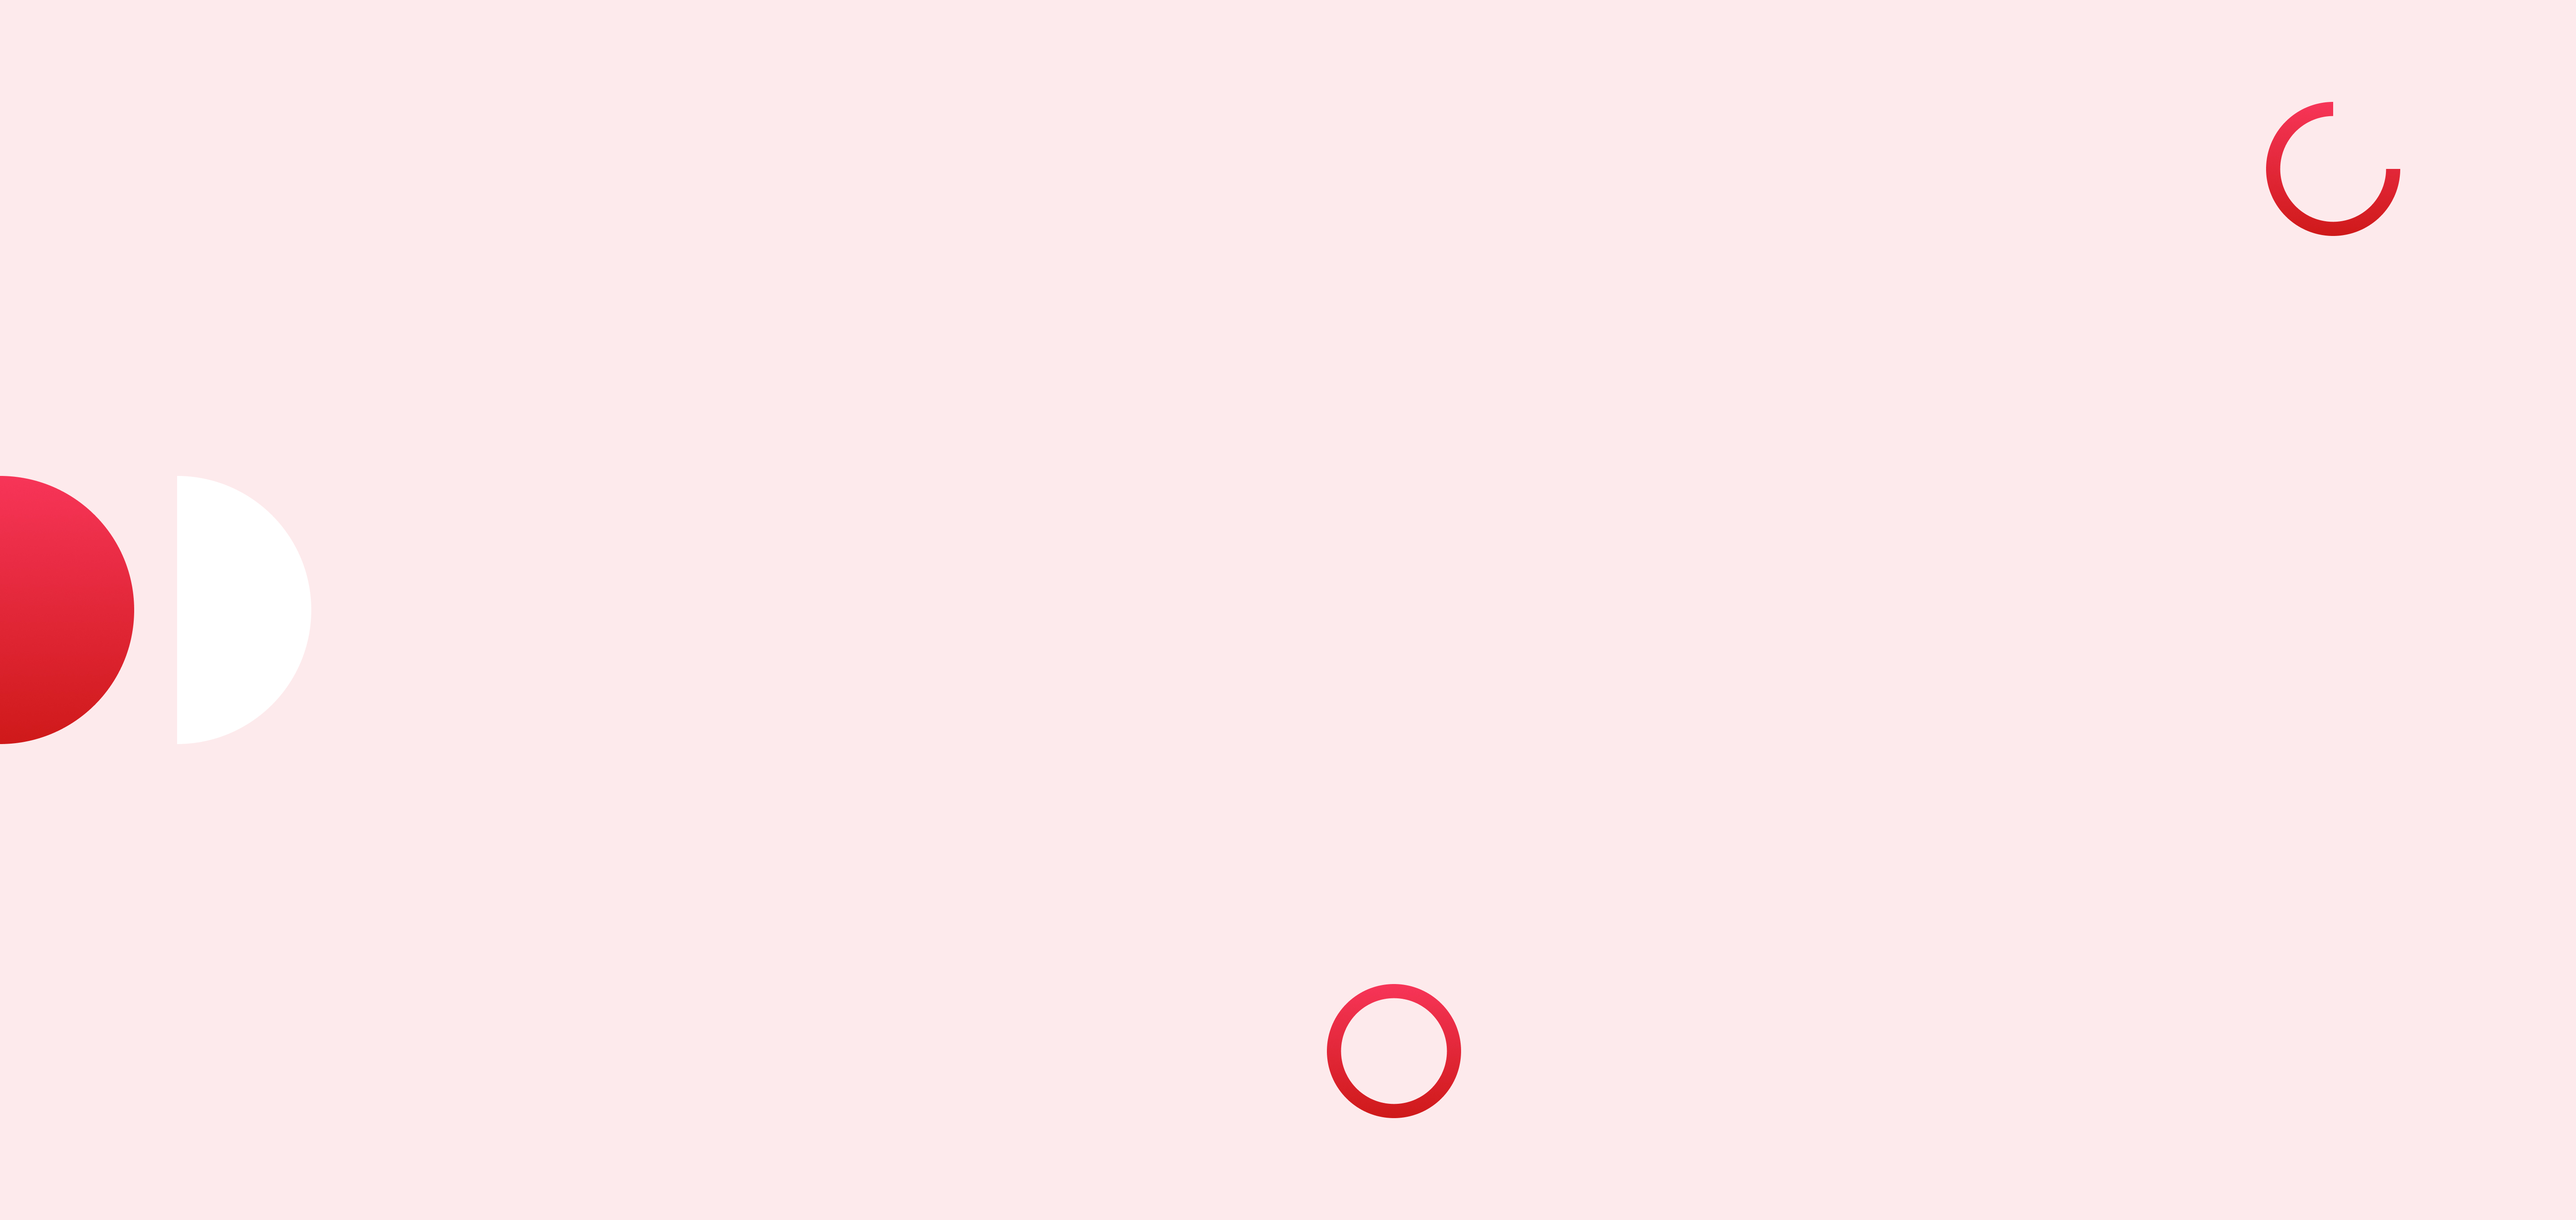
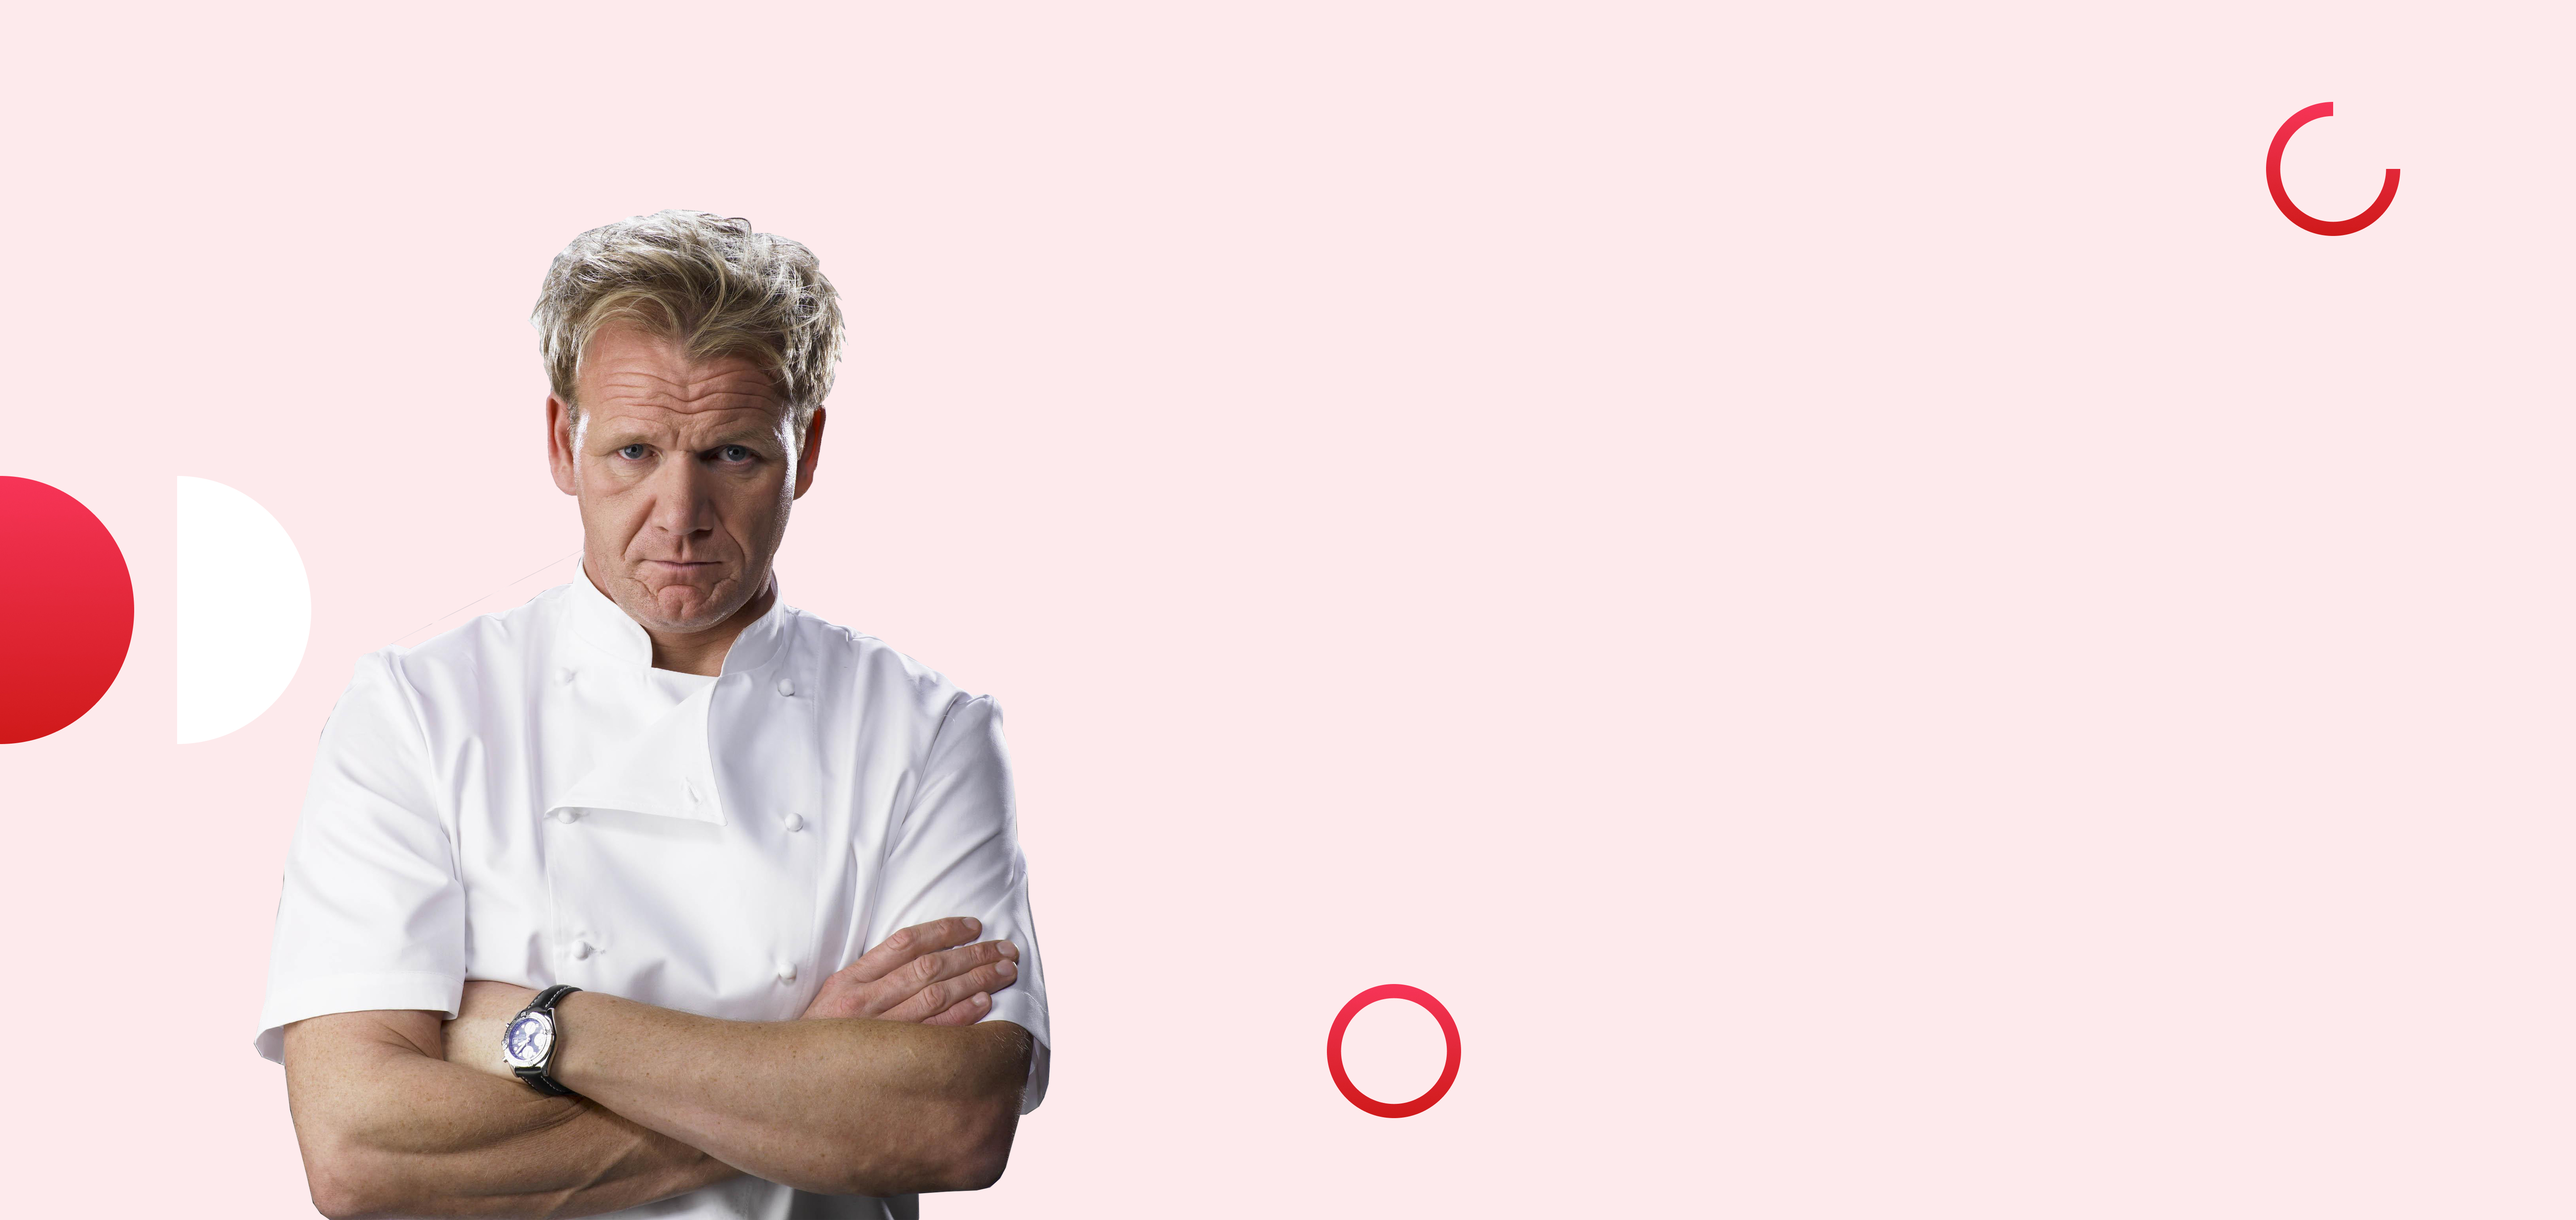
finish

Changed region(s): [[0.0938, 0.1557, 0.4062, 1.0]]

diff --git a/index.html b/index.html
@@ -28,7 +28,7 @@
                 href="https://www.gordonramsayrestaurants.com/restaurants-and-bars/american-restaurants/">Order Food</a>
         </div>
         <div class="half-width">
-            <img src="Photos/Group 8447.png" alt="">
+            <img src="photos/Group 8450.jpg" alt="">
         </div>
     </section>
 
@@ -100,23 +100,25 @@
 
     </section>
     <section class="top2">
-        <div class="last">
-            <h2>
-                17.8M
-            </h2>
-            <a id="yt" target=" _blank" href="https://www.youtube.com/user/gordonramsay">YouTube</a>
-        </div>
-        <div class="last">
-            <h2>
-                21M
-            </h2>
-            <a id="fb" target=" _blank" href="https://www.facebook.com/gordonramsay">Facebook</a>
-        </div>
-        <div class="last">
-            <h2>
-                12.4M
-            </h2>
-            <a id="ig" target=" _blank" href="https://www.instagram.com/gordongram/">Instagram</a>
+        <div id="all">
+            <div class="last">
+                <h2>
+                    17.8M
+                </h2>
+                <a id="yt" target=" _blank" href="https://www.youtube.com/user/gordonramsay">YouTube</a>
+            </div>
+            <div class="last">
+                <h2>
+                    21M
+                </h2>
+                <a id="fb" target=" _blank" href="https://www.facebook.com/gordonramsay">Facebook</a>
+            </div>
+            <div class="last">
+                <h2>
+                    12.4M
+                </h2>
+                <a id="ig" target=" _blank" href="https://www.instagram.com/gordongram/">Instagram</a>
+            </div>
         </div>
 
     </section>

diff --git a/style.css b/style.css
@@ -11,6 +11,7 @@ p{
 }
 .top{
     display: flex;
+    margin-top: 10%;
 }
 .half-width{
         width: 50%;  
@@ -42,21 +43,20 @@ p{
 padding-left: 60%;
     padding-top: 15%;
     padding-bottom: 15%;
-    margin-top: 15%;
+    margin-top: 10%;
    
 
 }
 .background{
-    background-image: url(
-        photos/T22-01.png
-    );
+    background-image: url(photos/Frame\ 58.jpg);
+   
     background-size: cover;
     background-repeat: no-repeat;
 
 }
 .recipies-intro{
     display: flex;
-    margin-top: 350px;
+    margin-top:10%;
     padding-right: 30%;
     padding-left: 30%;
 
@@ -97,16 +97,23 @@ padding-left: 60%;
         display: flex;
         
         padding-left: 35%;
-        margin-top: 100px;
-        margin-bottom: 100px;
-        
-    }
-   .last{
-       padding-left: 60px;
-
-       text-align: center;
+        margin-top: 10%;
        
-    }
+}
+#all{
+    box-shadow: 10px 10px 40px black;
+    display: flex;
+    margin-top: 10px;
+    padding-left: 60px;
+    padding-right: 60px;
+    text-align: center;
+    padding-bottom: 30px;
+    border-radius: 12px;
+}
+.last{
+    padding-left: 15px;
+    padding-right: 15px;
+}        
     #yt{
         margin-top: 20px;
         text-decoration: none;
@@ -134,7 +141,7 @@ padding-left: 60%;
         font-weight: 900;
         border-radius: 12px;
     }
-
+   
 
 #end{
     height: 200px;
@@ -142,6 +149,7 @@ padding-left: 60%;
     color: grey;
     text-align: center;
     padding-top: 30px;
+    margin-top: 10%;
     }
   
 
